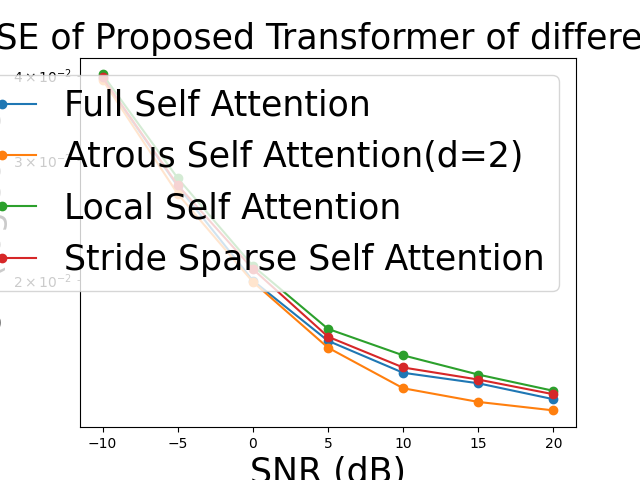
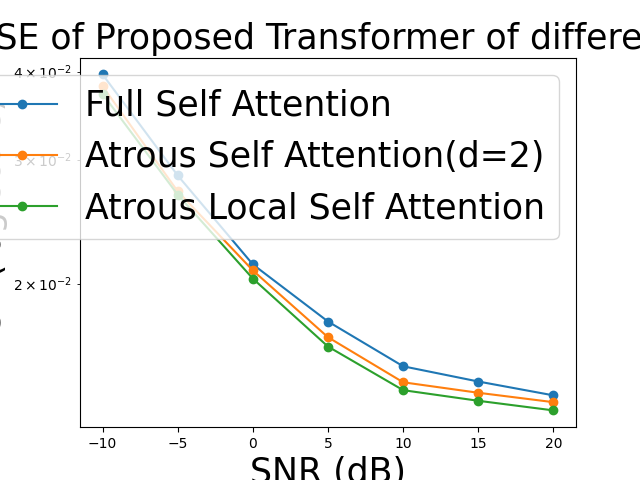
message

Changed region(s): [[0.0, 0.125, 0.875, 0.875], [0.0, 0.2188, 0.0625, 0.25]]

diff --git a/SPR-CNN/result-modality-transformer.py b/SPR-CNN/result-modality-transformer.py
@@ -11,13 +11,13 @@ y1 = [0.6419357114932095, 0.3948697806398535, 0.2653386565881674, 0.175961235616
 # Transformers(Encoder * 2 + Decoder * 2), epochs = 200, lr = 0.0001, batch_size = 32
 # reshape type = (Nr, Nt, channel)
 # 自己寫的 multi-head attention
-y2 = [0.03987005725502968, 0.029254980385303497, 0.02159520797431469, 0.018056659027934074, 0.016204895451664925, 0.01474946178495884, 0.014378390274941921]
+y2 = [0.03987005725502968, 0.029254980385303497, 0.02198883332312107, 0.018056659027934074, 0.016204895451664925, 0.01474946178495884, 0.014378390274941921]
 
 # Transformers(Encoder * 2 + Decoder * 2, (16 * 32 * 4)), epochs = 200, lr = 0.0001, batch_size = 32
 # 自己寫的 multi-head self attention, full attention
 # encoder ff layer 用 Conv1D, decoder ff layer 用 ffn
 # modality-aware transformers
-y3 = [0.039645493030548096, 0.02747759222984314, 0.019949764013290405, 0.016258176416158676, 0.014586728066205978, 0.014074832201004028, 0.01333386730402708]
+y3 = [0.039645493030548096, 0.02848387509584427, 0.02129441872239113, 0.017665809020400047, 0.015258733183145523, 0.01451767235994339, 0.013874311000108719]
 
 # DAECNNATT
 y4 = [0.5412381862428629, 0.33254079647163465, 0.2115293457419186, 0.1564142778360277, 0.12438449687660279, 0.10890364229279535, 0.10238436697803815]
@@ -63,13 +63,13 @@ y1 = [12.376030106733767, 13.813554657995969, 14.51362168247246, 14.977598826832
 # Transformers(Encoder * 2 + Decoder * 2), epochs = 200, lr = 0.0001, batch_size = 32
 # reshape type = (Nr, Nt, channel)
 # 自己寫的 multi-head attention
-y2 = [15.490602115597438, 15.58706522935487, 15.656273772156585, 15.688134016492416, 15.70477877832414, 15.71784768980056, 15.721177762372365]
+y2 = [15.490602115597438, 15.58706522935487, 15.652725337861053, 15.688134016492416, 15.70477877832414, 15.71784768980056, 15.721177762372365]
 
 # Transformers(Encoder * 2 + Decoder * 2, (16 * 32 * 4)), epochs = 200, lr = 0.0001, batch_size = 32
 # 自己寫的 multi-head self attention, full attention
 # encoder ff layer 用 Conv1D, decoder ff layer 用 ffn
 # modality-aware transformers
-y3 = [15.49264954985823, 15.603153955212745, 15.671097689190924, 15.70430017748037, 15.719308225768199, 15.723901398921354, 15.730547503306035]
+y3 = [15.49264954985823, 15.594047444695512, 15.658984741992914, 15.691648785427166, 15.713276056208183, 15.719927910290641, 15.725700256494086]
 
 # DAECNNATT
 y4 = [12.97931951377382, 14.154661877931208, 14.794740768464427, 15.077112879082799, 15.238707802839244, 15.316166877397217, 15.348662296652947]
@@ -146,13 +146,13 @@ y1 = [0.03987005725502968, 0.029254980385303497, 0.02159520797431469, 0.01805665
 # 自己寫的 multi-head self attention, full attention
 # encoder ff layer 用 Conv1D, decoder ff layer 用 ffn
 # modality-aware transformers
-y2 = [0.039645493030548096, 0.02747759222984314, 0.019949764013290405, 0.016258176416158676, 0.014586728066205978, 0.014074832201004028, 0.01333386730402708]
+y2 = [0.039645493030548096, 0.02848387509584427, 0.02129441872239113, 0.017665809020400047, 0.015258733183145523, 0.01451767235994339, 0.013874311000108719]
 
 # Transformers(Encoder * 2 + Decoder * 2, (16 * 32 * 4)), epochs = 200, lr = 0.0001, batch_size = 32
 # 自己寫的 multi-head self attention, full attention
 # encoder ff layer 用 ffn, decoder ff layer 用 ffn
 # modality-aware transformers
-y3 = [0.039773717522621155, 0.028461197391152382, 0.020952610298991203, 0.017375558614730835, 0.01585640199482441, 0.014552067965269089, 0.014185205101966858]
+y3 = [0.039773717522621155, 0.028461197391152382, 0.021421413868665695, 0.017966583371162415, 0.01585640199482441, 0.014552067965269089, 0.014185205101966858]
 
 # FEDformer
 y6 = [0.04003031924366951, 0.032262492924928665, 0.023152129724621773, 0.017859801650047302, 0.01619112305343151, 0.014731141738593578, 0.014243846759200096]
@@ -200,13 +200,13 @@ y1 = [15.490602115597438, 15.58706522935487, 15.656273772156585, 15.688134016492
 # 自己寫的 multi-head self attention, full attention
 # encoder ff layer 用 Conv1D, decoder ff layer 用 ffn
 # modality-aware transformers
-y2 = [15.49264954985823, 15.603153955212745, 15.671097689190924, 15.70430017748037, 15.719308225768199, 15.723901398921354, 15.730547503306035]
+y2 = [15.49264954985823, 15.594047444695512, 15.658984741992914, 15.691648785427166, 15.713276056208183, 15.719927910290641, 15.725700256494086]
 
 # Transformers(Encoder * 2 + Decoder * 2, (16 * 32 * 4)), epochs = 200, lr = 0.0001, batch_size = 32
 # 自己寫的 multi-head self attention, full attention
 # encoder ff layer 用 ffn, decoder ff layer 用 ffn
 # modality-aware transformers
-y3 = [15.49148045194048, 15.594252673970859, 15.662064721667459, 15.694258319307453, 15.707909134999468, 15.719619257954932, 15.722911156969142]
+y3 = [15.49148045194048, 15.594252673970859, 15.657840168742075, 15.688944079251307, 15.707909134999468, 15.719619257954932, 15.722911156969142]
 
 # FEDformer
 y6 = [15.489140933602904, 15.55980019276288, 15.642233280343834, 15.689904380496367, 15.70490247599874, 15.718012085872813, 15.722385011103668]
@@ -277,13 +277,13 @@ x = [-10, -5, 0, 5, 10, 15, 20]
 # 自己寫的 multi-head self attention, full attention
 # encoder ff layer 用 Conv1D, decoder ff layer 用 ffn
 # modality-aware transformers
-y1 = [0.039645493030548096, 0.02747759222984314, 0.019949764013290405, 0.016258176416158676, 0.014586728066205978, 0.014074832201004028, 0.01333386730402708]
+y1 = [0.039645493030548096, 0.02848387509584427, 0.02129441872239113, 0.017665809020400047, 0.015258733183145523, 0.01451767235994339, 0.013874311000108719]
 
 # Transformers(Encoder * 2 + Decoder * 2, (16 * 32 * 4)), epochs = 200, lr = 0.0001, batch_size = 32
 # 自己寫的 multi-head self attention, atrous_self_attention,
 # encoder ff layer 用 Conv1D, decoder ff layer 用 ffn
 # modality-aware transformers
-y2 = [0.03944879397749901, 0.026776893064379692, 0.01985848695039749, 0.015884367749094963, 0.013839473016560078, 0.013212382793426514, 0.012837452813982964]
+y2 = [0.038145072758197784, 0.027047526091337204, 0.02087853103876114, 0.016779784113168716, 0.014481263235211372, 0.01399294938892126, 0.01356890331953764]
 
 # Transformers(Encoder * 2 + Decoder * 2, (16 * 32 * 4)), epochs = 200, lr = 0.0001, batch_size = 32
 # 自己寫的 multi-head self attention, Local Self Attention
@@ -303,12 +303,19 @@ y4 = [0.03975171595811844, 0.027584269642829895, 0.020740732550621033, 0.0164865
 # modality-aware transformers
 y5 = [0.03968484327197075, 0.028611933812499046, 0.022718237712979317, 0.021889904513955116, 0.019011519849300385, 0.016211938112974167, 0.01379705686122179]
 
+# Transformers(Encoder * 2 + Decoder * 2, (16 * 32 * 4)), epochs = 200, lr = 0.0001, batch_size = 32
+# 自己寫的 multi-head self attention, atrous_and_local_self_attention, d = 2, windows = 6
+# encoder ff layer 用 Conv1D, decoder ff layer 用 ffn
+# modality-aware transformers
+y6 = [0.03719576820731163, 0.02675441838800907, 0.02032649889588356, 0.016275744885206223, 0.014112374745309353, 0.01363054383546114, 0.013208819553256035]
+
 # draw
 plt.plot(x, y1, marker='o', label='Full Self Attention')
 plt.plot(x, y2, marker='o', label='Atrous Self Attention(d=2)')
-plt.plot(x, y3, marker='o', label='Local Self Attention')
-plt.plot(x, y4, marker='o', label='Stride Sparse Self Attention')
+# plt.plot(x, y3, marker='o', label='Local Self Attention')
+# plt.plot(x, y4, marker='o', label='Stride Sparse Self Attention')
 # plt.plot(x, y5, marker='o', label='Atrous Self Attention(d=3)')
+plt.plot(x, y6, marker='o', label='Atrous Local Self Attention')
 
 
 # set y-axis to log scale
@@ -337,13 +344,13 @@ x = [-10, -5, 0, 5, 10, 15, 20]
 # 自己寫的 multi-head self attention, full attention
 # encoder ff layer 用 Conv1D, decoder ff layer 用 ffn
 # modality-aware transformers
-y1 = [15.49264954985823, 15.603153955212745, 15.671097689190924, 15.70430017748037, 15.719308225768199, 15.723901398921354, 15.730547503306035]
+y1 = [15.49264954985823, 15.594047444695512, 15.658984741992914, 15.691648785427166, 15.713276056208183, 15.719927910290641, 15.725700256494086]
 
 # Transformers(Encoder * 2 + Decoder * 2, (16 * 32 * 4)), epochs = 200, lr = 0.0001, batch_size = 32
 # 自己寫的 multi-head self attention, atrous_self_attention,
 # encoder ff layer 用 Conv1D, decoder ff layer 用 ffn
 # modality-aware transformers
-y2 = [15.494442592010083, 15.609491910438882, 15.671919573771865, 15.707657914006779, 15.726012765282944, 15.731636832092104, 15.734998353604407]
+y2 = [15.506321704157296, 15.60704432309743, 15.662732238044741, 15.6996133959397, 15.720254642621406, 15.724635949414886, 15.728439669153394]
 
 # Transformers(Encoder * 2 + Decoder * 2, (16 * 32 * 4)), epochs = 200, lr = 0.0001, batch_size = 32
 # 自己寫的 multi-head self attention, Local Self Attention
@@ -355,7 +362,7 @@ y3 = [15.487893916991833, 15.59620204858171, 15.661933478931305, 15.698256769090
 # 自己寫的 multi-head self attention, Stride Sparse Self Attention
 # encoder ff layer 用 Conv1D, decoder ff layer 用 ffn
 # modality-aware transformers
-y4 = [15.491681067760004, 15.602188908767813, 15.663973687062441, 15.702248021962497, 15.716936093266758, 15.722290191751824, 15.728512427221728]
+# y4 = [15.491681067760004, 15.602188908767813, 15.663973687062441, 15.702248021962497, 15.716936093266758, 15.722290191751824, 15.728512427221728]
 
 # Transformers(Encoder * 2 + Decoder * 2, (16 * 32 * 4)), epochs = 200, lr = 0.0001, batch_size = 32
 # 自己寫的 multi-head self attention, atrous_self_attention, d = 3
@@ -363,19 +370,28 @@ y4 = [15.491681067760004, 15.602188908767813, 15.663973687062441, 15.70224802196
 # modality-aware transformers
 y5 = [15.49229083432177, 15.592888048108476, 15.646147580348586, 15.653617242610963, 15.679543601852913, 15.704715510298538, 15.726393267161576]
 
+# Transformers(Encoder * 2 + Decoder * 2, (16 * 32 * 4)), epochs = 200, lr = 0.0001, batch_size = 32
+# 自己寫的 multi-head self attention, atrous_and_local_self_attention, d = 2, windows = 6
+# encoder ff layer 用 Conv1D, decoder ff layer 用 ffn
+# modality-aware transformers
+y6 = [15.514965219088664, 15.609695093405547, 15.667704968574576, 15.704142340486547, 15.723564602694648, 15.727886811139943, 15.7316688188335]
+
 
 y1 = [value / 10 for value in y1]
 y2 = [value / 10 for value in y2]
 y3 = [value / 10 for value in y3]
 y4 = [value / 10 for value in y4]
 y5 = [value / 10 for value in y5]
+y6 = [value / 10 for value in y6]
 
 # draw
 plt.plot(x, y1, marker='o', label='Full Self Attention')
 plt.plot(x, y2, marker='o', label='Atrous Self Attention')
-plt.plot(x, y3, marker='o', label='Local Self Attention')
-plt.plot(x, y4, marker='o', label='Stride Sparse Self Attention')
+# plt.plot(x, y3, marker='o', label='Local Self Attention')
+# plt.plot(x, y4, marker='o', label='Stride Sparse Self Attention')
 # plt.plot(x, y5, marker='o', label='Atrous Self Attention(d=3)')
+plt.plot(x, y6, marker='o', label='Atrous Local Self Attention')
+
 
 # set y-axis to log scale
 plt.yscale('log')

diff --git a/SPR-CNN/sparse_attention.py b/SPR-CNN/sparse_attention.py
@@ -96,6 +96,7 @@ class Multi_Head_Attention(tf.keras.layers.Layer):
             # mask = random_self_attention_mask(N = seq_len, Probability = 0.5)
             # mask = local_self_attention_mask(N = seq_len, window_size = 2)
             # mask = stride_sparse_self_attention_mask(N = seq_len, local_range = 2, stride = 2)
+            # mask = atrous_and_local_self_attention_mask(N = seq_len, dilation_rate = 2, window_size = 6)
             # scores = scores * mask - tf.constant(1e10, dtype=tf.float32) * (1 - mask)
 
             # Apply softmax for attention weights
@@ -169,6 +170,7 @@ class Inter_Modal_Multi_Head_Attention(tf.keras.layers.Layer):
             # mask = random_self_attention_mask(N = seq_len, Probability = 0.5)
             # mask = local_self_attention_mask(N = seq_len, window_size = 2)
             # mask = stride_sparse_self_attention_mask(N = seq_len, local_range = 2, stride = 2)
+            # mask = atrous_and_local_self_attention_mask(N = seq_len, dilation_rate = 2, window_size = 6)
             # scores = scores * mask - tf.constant(1e10, dtype=tf.float32) * (1 - mask)
 
             # Apply softmax for attention weights
@@ -229,6 +231,20 @@ def random_self_attention_mask(N, Probability):
     #  [0. 1. 0. 1. 0. 1.]]
     mask = np.random.rand(N, N)
     mask = (mask >= Probability).astype(int)
+    return mask
+
+def atrous_and_local_self_attention_mask(N, dilation_rate, window_size):
+    # [[1. 0. 1. 0. 1. 0.]
+    #  [0. 1. 0. 1. 0. 1.]
+    #  [1. 0. 1. 0. 1. 0.]
+    #  [0. 1. 0. 1. 0. 1.]
+    #  [1. 0. 1. 0. 1. 0.]
+    #  [0. 1. 0. 1. 0. 1.]]
+    mask = np.zeros((N, N))
+    for i in range(N):
+        for j in range(N):
+            if abs(i - j) % dilation_rate == 0 and abs(i - j) <= window_size:
+                mask[i, j] = 1
     return mask
 
 class FFT(tf.keras.layers.Layer):

diff --git a/SPR-CNN/result-modality-aware-atrous-self-attention.py b/SPR-CNN/result-modality-aware-atrous-self-attention.py
@@ -36,7 +36,7 @@ y6 = [0.04192124307155609, 0.04125601425766945, 0.04102673381567001, 0.040720861
 # 自己寫的 multi-head self attention, Local Self Attention, 50%
 # encoder ff layer 用 Conv1D, decoder ff layer 用 ffn
 # modality-aware transformers
-y7 = [0.04016707092523575, 0.0282458383589983, 0.020967191085219383, 0.01693073660135269, 0.015475446358323097, 0.014496663585305214, 0.013719967566430569]
+y7 = [0.039498768746852875, 0.02775953710079193, 0.020758099853992462, 0.01766771636903286, 0.015282352454960346, 0.014278898946940899, 0.013560183346271515]
 
 # draw
 plt.plot(x, y2, marker='o', label='Atrous Self Attention(50%)')
@@ -98,7 +98,7 @@ y6 = [15.471887670465838, 15.477959831493383, 15.48005189623524, 15.482842452373
 # 自己寫的 multi-head self attention, Local Self Attention, 50%
 # encoder ff layer 用 Conv1D, decoder ff layer 用 ffn
 # modality-aware transformers
-y7 = [15.487893916991833, 15.59620204858171, 15.661933478931305, 15.698256769090925, 15.71133025985971, 15.720116450547517, 15.727084762060883]
+y7 = [15.49398709544224, 15.60060311439872, 15.663817260607027, 15.691631612401814, 15.713064030051235, 15.72207049582714, 15.728517878915074]
 
 y1 = [value / 10 for value in y1]
 y2 = [value / 10 for value in y2]

diff --git a/SPR-CNN/main.py b/SPR-CNN/main.py
@@ -383,7 +383,7 @@ for _ in range(encoder_block_num):  # Repeat the encoder encoder_block_num times
     enc_output = enc_output  # Assuming encoder output is available
     # FFT
     # x = FFT_layer(x)
-    enc_output = FFT_layer(enc_output)
+    # enc_output = FFT_layer(enc_output)
     cross_attention_layer = Multi_Head_Attention(d_k=key_dim_num, d_v=key_dim_num, d_model=key_dim_num, num_heads = num_heads)
     attn_output = cross_attention_layer(x, enc_output = enc_output)
     # IFFT

diff --git a/SPR-CNN/loop.py b/SPR-CNN/loop.py
@@ -17,12 +17,12 @@ with open('output.txt', 'a') as f:
 base_command = "python3 modality-aware.py"
 
 # 要执行的 SNR_dB 参数的范围
-SNR_dB_range = range(-10, 21, 5)
+SNR_dB_range = range(-10, 101, 5)
 
 # 遍历 SNR_dB 参数的范围
 for SNR_dB in SNR_dB_range:
     # 构建完整的命令字符串
-    command = f"{base_command} 20"
+    command = f"{base_command} 0"
     
     # 执行命令
     result = subprocess.run(command, shell=True)
